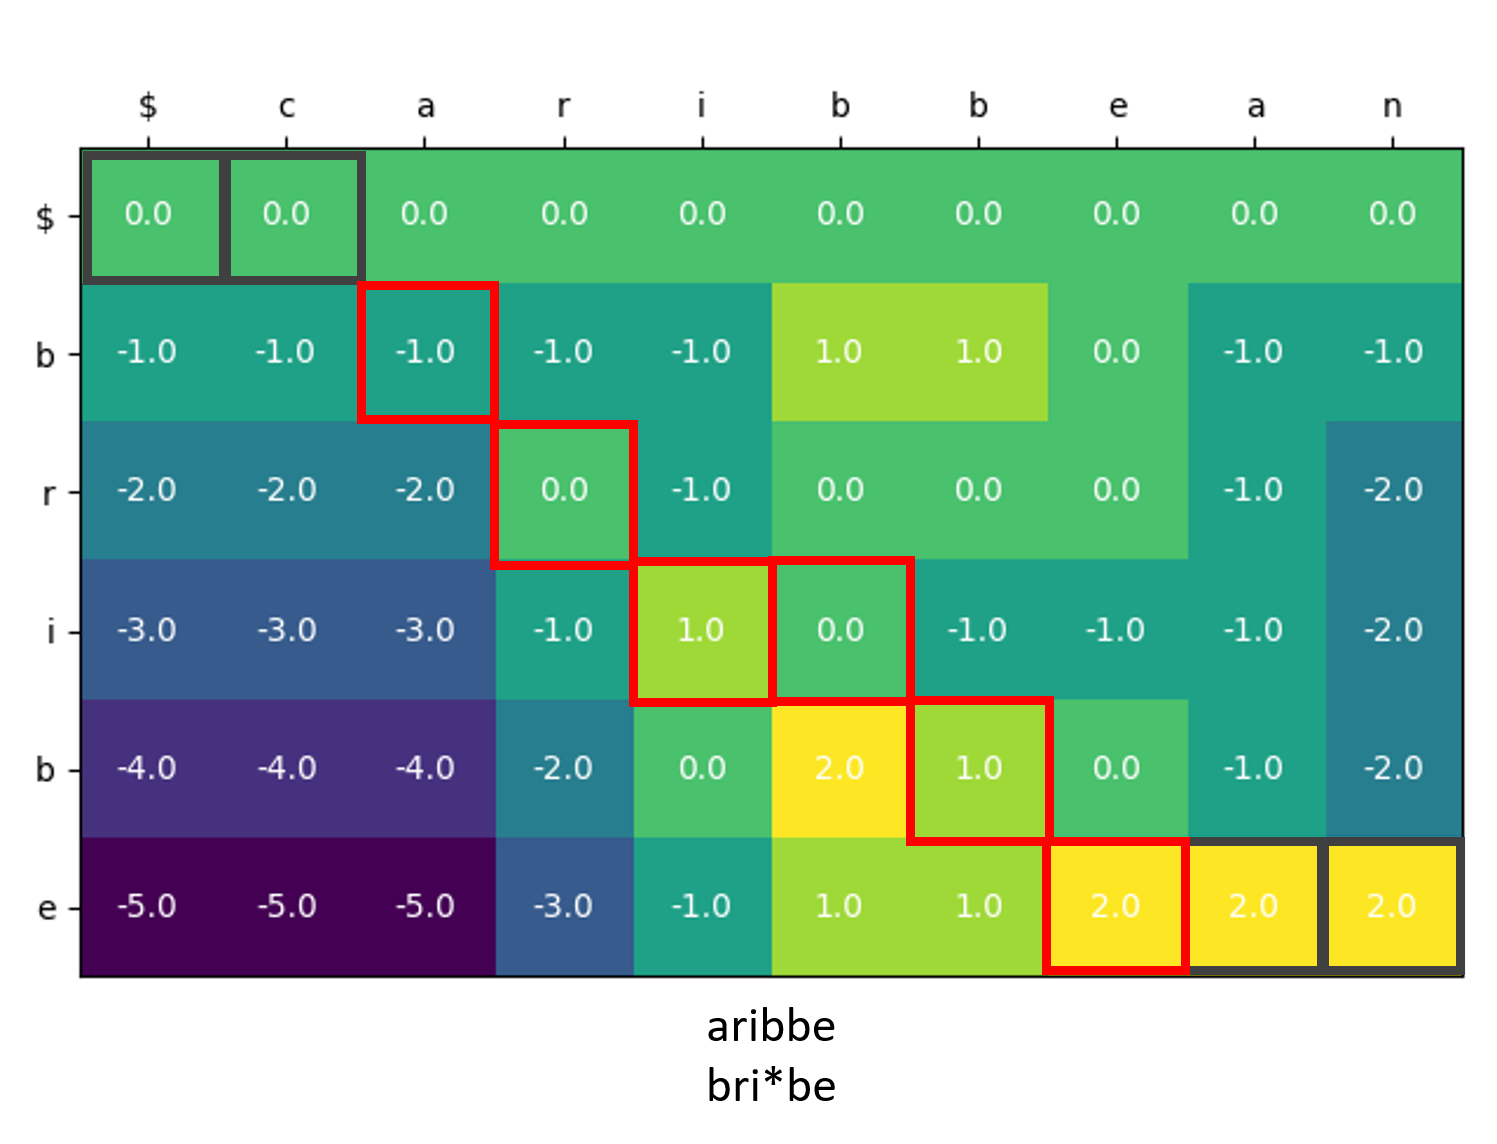
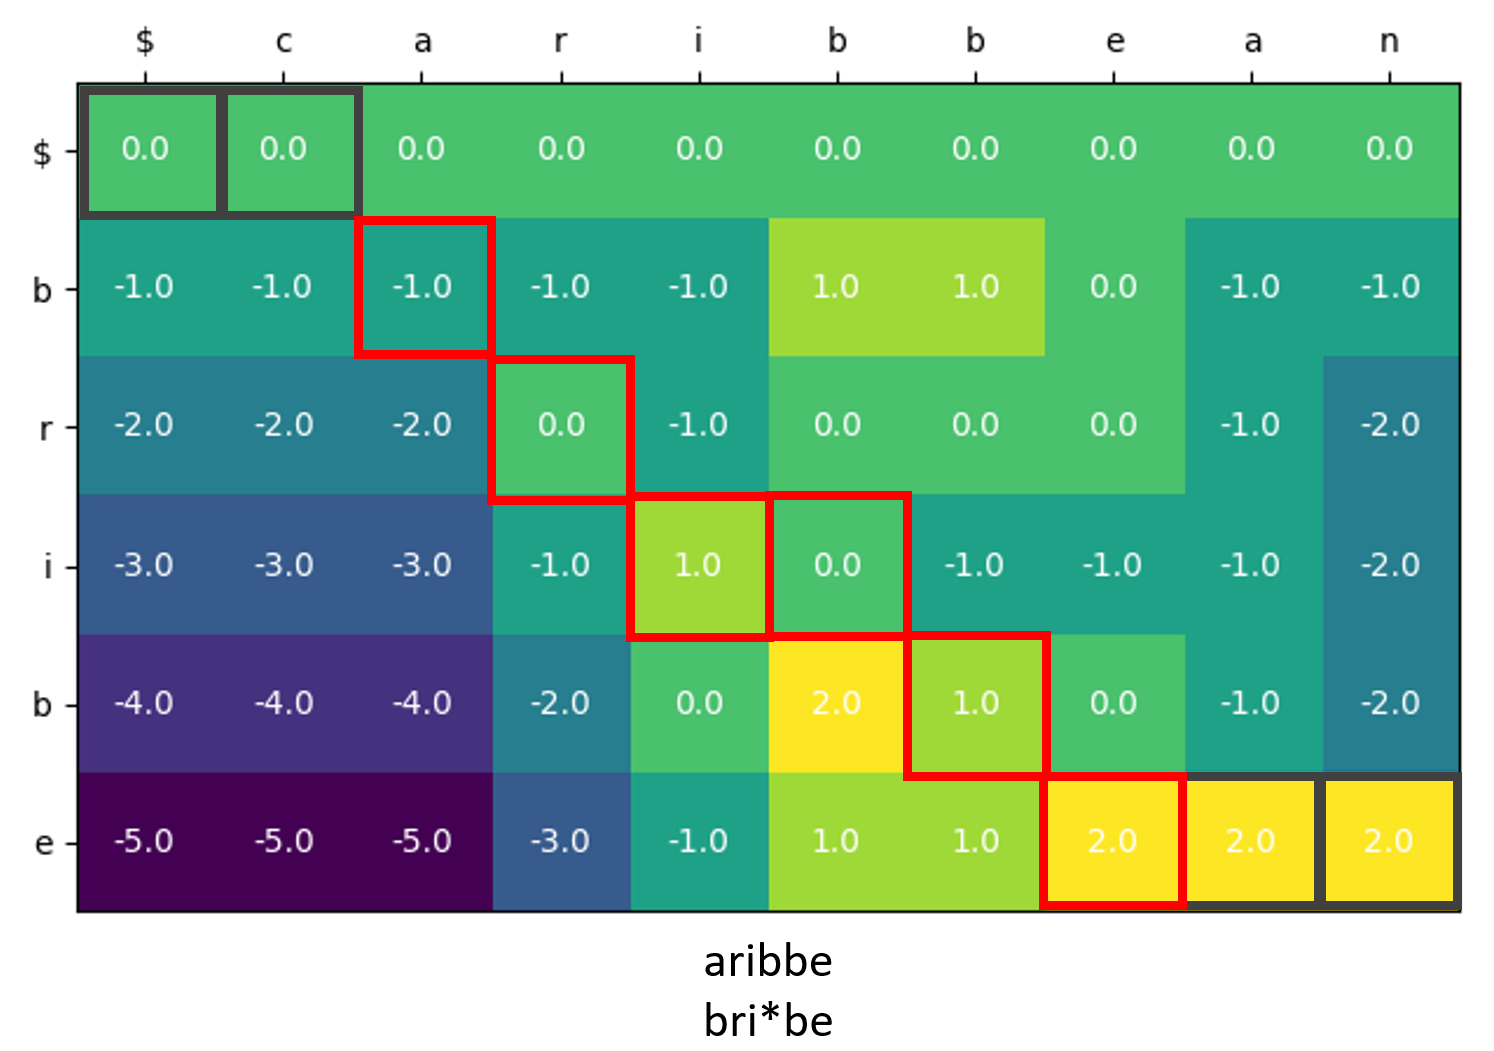
report: complete algorithm description

diff --git a/doc/report/parts/pseudolabeling.tex b/doc/report/parts/pseudolabeling.tex
@@ -8,8 +8,9 @@
 
 \subsection{Предварительная обработка текста}\label{subsection:preprocessing}
 
-Исходные данные для алгоритма исправления ошибок -- текст, полученный в результате распознавания (символы азбуки Брайля, пробелы и переносы строк), а также первоначальный электронный текст (буквы в разном регистре, цифры и специальные символы).
+Исходные данные для алгоритма исправления ошибок -- текст, полученный в результате распознавания (буквы, другие знаки, соответствующие символам азбуки Брайля, и пробелы), а также первоначальный электронный текст (буквы в верхнем и нижнем регистре, цифры и специальные символы).
 % TODO describe grade 1
+Чтобы каждая позиция в выравнивании соответствовала одному брайлевскому символу, референсная строка преобразуется: вместо символа троеточия вставляются три точки, унифицируется вид кавычек; буквы расширенной латиницы, отсутствующие в английском языке, заменяются латиницей (например, <<\'o>> $\rightarrow$ <<o>>) и так далее.
 
 \subsection{Построение выравнивания}
 Будем называть \emph{референсом (reference)} исходный текст и \emph{запросом (query)} строку, полученную в результате распознавания страницы (эти термины используются в биоинформатике, в задаче нахождения сходства между биологическими последовательностями).
@@ -28,7 +29,24 @@
 \subsubsection{Поиск регионов интереса. Хэширование}
 
 % TODO formulas: q-gram filtering, ...?
-% TODO
+
+Поскольку каждая страница занимает малую часть исходного текста, и при этом неизвестно, какую именно, первый этап выравнивания -- поиск регионов интереса.
+Под \emph{регионом интереса} будем понимать такой подотрезок референса, который, по нашему предположению, целиком содержит исходный текст, из которого в результате внесения ошибок получается запрос.
+
+Будем искать регионы с помощью создания индекса $k$-кортежей референса.
+\emph{k-кортеж} -- это любая строка длины $k$ над алфавитом $ \mathcal A  \cup \{ \ast \} $.
+
+\begin{enumerate}[noitemsep]
+    \item Максимальное число знаков в брайлевской строке -- 40, строк на странице -- 25, т. е. не более 1000 знако на странице.
+    Разделим референс на участки длиной 250 символов (т. е. четверть максимального объёма страницы) и посчитаем для каждого $k$-кортежа референса ($k$-параметр), в каких участках он встречается.
+    \item Для каждого участка посчитаем, сколько $k$-кортежей запроса в него входит.
+    \item Выберем такую четвёрку подряд идущих участков, в котором содержится наибольшее число $k$-кортежей из запроса (или несколько четвёрок).
+    \item Дополним четвёрку участков ещё двумя соседними участками (один справа и один слева), поскольку страница теоретически может занимать пять участков.
+    Это и есть построенный регион интереса.
+ \end{enumerate}
+
+Параметр $k$ подбирается так, чтобы число найденных $k$-кортежей в регионе интереса было значительно выше, чем в остальных местах.
+Как показала практика, оптимально выбирать $k$ от $7$ до $15$ (см. приложение, рис. \ref{fig:find_k}).
 
 \subsubsection{Оптимальное выравнивание. Алгоритм Нидлмана-Вунша}
 
@@ -70,7 +88,7 @@
 \end{cases} \]
 
 Такой алгоритм строит выравнивание с наименьшим возможным числом несовпадений на участке от первого отличного от пропуска символа запроса до последнего. % TODO оформить в виде теоремы
-Теперь выравнивание выглядит так:
+Теперь выравнивание выглядит следующим образом:
 
 \begin{verbatim}
     homo homini lupus est
@@ -103,11 +121,20 @@
         \label{fig:needleman_real:modified}
     \end{subfigure}
     \caption{Тепловые карты матриц динамического программирования при выравнивании результата распознавания страницы из романа "Scarlet Letter"\hspace{0pt} на участок, найденный с помощью хэширования на референсе.
-    Более светлые точки сооветствуют элементам матрицы с более высоким значением.}
-    \label{fig:needleman_real} % TODO ref in the text
+    Более светлые точки сооветствуют элементам матрицы с большим весом.}
+    \label{fig:needleman_real}
 \end{figure}
 
 % TODO write about big O complexity
 
 \subsection{Исправление ошибок после выравнивания}
+
+Когда найдено наилучшее соответствие, в запросе исправляются несовпадения и убираются вставки.
+При этом учитывается, что в запросе может присутствовать номер страницы и знаки переноса строк, которых нет в референсне (в выравнивании это можно опознать по характерному паттерну: в запросе -- число или знак дефиса с последующим пробелом, в референсной строке -- участок из пропусков).
+
+\subsection{Полуконтролируемое обучение}
+
+Когда метки исправлены, можно провести следующий цикл обучения нейросети, используя аннотированные данные как часть тренировочного набора (в этом и заключается полуконтролируемое обучение).
+Как правило, при этом берётся лишь часть данных с псевдометками, отобранная по некоторому критерию качества; в данной работе таким критерием служит доля слов, которые встречаются в исходном тексте.
+
 \end{document}

diff --git a/doc/report/parts/problem.tex b/doc/report/parts/problem.tex
@@ -50,6 +50,7 @@
 \end{enumerate}
 
 \subsection{Обзор существующих решений}
+% TODO write a bit about SSL, maybe cite some articles (? at least IOvo's)
 \subsubsection{Подходы к распознаванию}
 Программы распознавания шрифта Брайля разрабатываются начиная с конца XIX века.
 В первую очередь они предназначены для брайлевских сканеров, при использовании которых строки на фотографии находятся на параллельных прямых.
@@ -71,7 +72,7 @@
 Особый интерес представляют алгоритмы, основанные на нейронных сетях UNet \cite{li2020braunet} и RetinaNet \cite{ovodov2020, ovodov2021}.
 В них предлагается вместо поиска строк или точек находить на изображении шеститочечные брайлевские символы, которые затем складываются в строки.
 Это позволяет успешно обрабатывать даже те фотографии, где лист изогнут или помят.
-Исходный код программы AngelinaReader, созданной автором \cite{ovodov2020, ovodov2021}, находится в открытом доступе\footnote{\href{https://github.com/IlyaOvodov/AngelinaReader}{github.com/IlyaOvodov/AngelinaReader}}
+Исходный код программы AngelinaReader, созданной автором \cite{ovodov2020, ovodov2021}, находится в открытом доступе\footnote{\href{https://github.com/IlyaOvodov/AngelinaReader}{github.com/IlyaOvodov/AngelinaReader}}.
 
 В статье \cite{ortoncelli2021} также описывается способ постобработки распознанных текстов, который позволяет уменьшить число ошибок распознавания.
 

diff --git a/doc/report/parts/experiments.tex b/doc/report/parts/experiments.tex
@@ -21,9 +21,11 @@
 
 \subsection{Обучение нейронной сети}
 
-Произведено 6 запусков процесса обучения нейронной сети: 3 раза с обучающим набором AngelinaDataset + DSBI и 3 раза с расширенным набором AngelinaDataset + DSBI + данные с псевдометками.
-Результаты сравнения качества моделей представлены в табл. \ref{table:validate_results}.
-% TODO formulas: write about how the metrics are calculated
+Произведено 6 запусков процесса обучения нейронной сети по 300 итераций: 3 раза с обучающим набором AngelinaDataset + DSBI и 3 раза с расширенным набором AngelinaDataset + DSBI + данные с исправленными псевдометками.
+Используются только те страницы с псевдометками, в которых после исправления не встречаются слова, отсутствующие в референсной строке (1164 страницы, разделённые на тренировочную и валидационную выборку в пропорции 9:1).
+Результаты сравнения качества моделей на валидационных, т. е. не используемых при обучении, долях выборок представлены в табл. \ref{table:validate_results}.
+% TODO formulas: write about how the metrics are calculated, loss function
+% TODO results: add SSL without labels correction
 
 % latex table generated in R 4.0.5 by xtable 1.8-4 package
 % Sat May 29 22:42:56 2021

diff --git a/doc/report/parts/results.tex b/doc/report/parts/results.tex
@@ -2,7 +2,7 @@
 \begin{document}
 \newpage
 \section{Выводы}
-
+% TODO remove this in final report
 % TODO
 
 \end{document}
